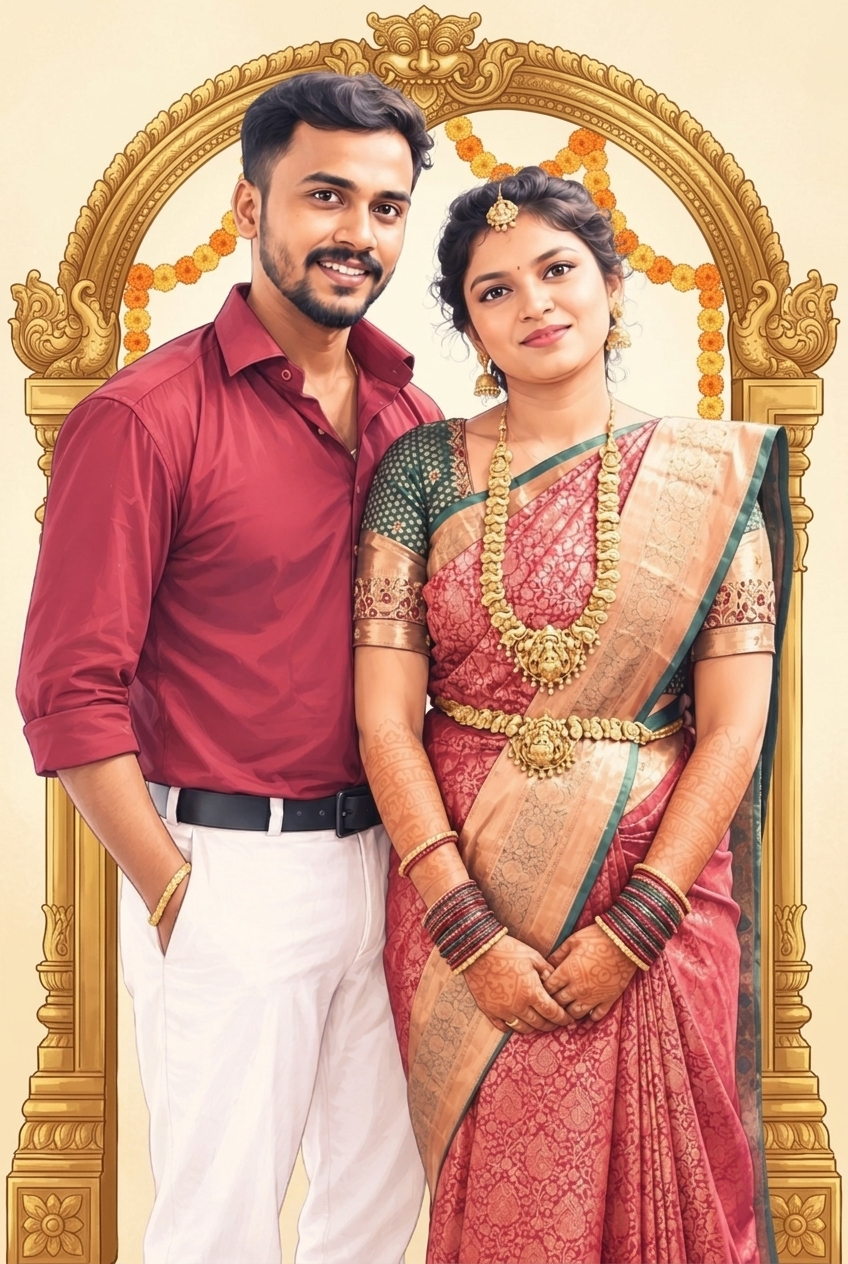
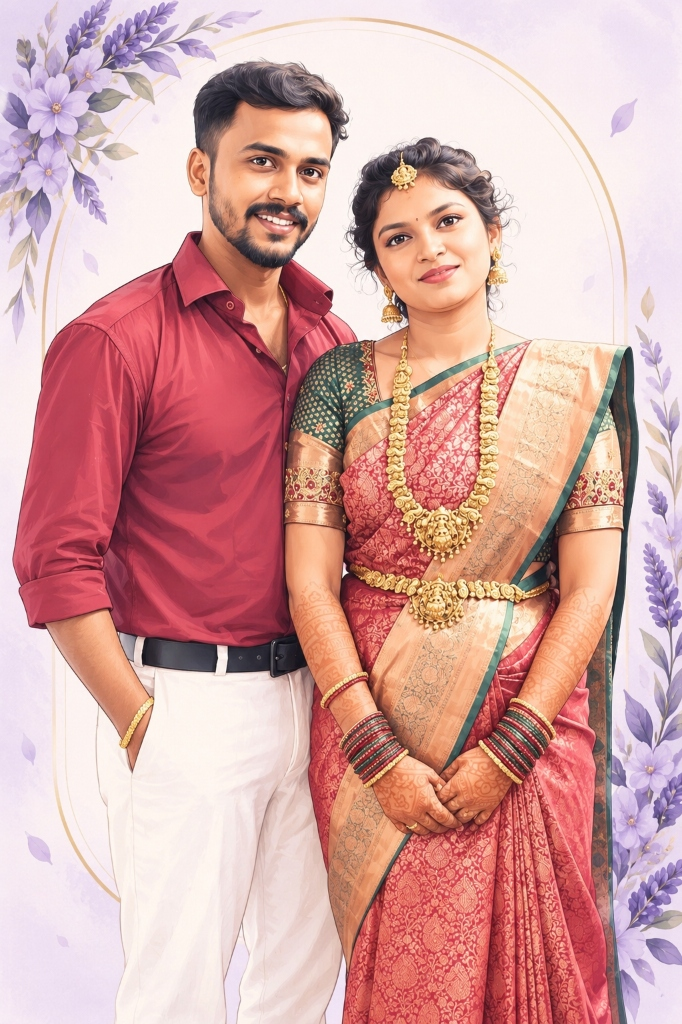
Replace wedding-couple with wedding-couple-original-purple

diff --git a/lavender-wedding-invitation/src/components/WeddingDetails.jsx b/lavender-wedding-invitation/src/components/WeddingDetails.jsx
@@ -282,7 +282,7 @@ export default function WeddingDetails() {
           <div className="relative mx-auto inline-block p-2.5 sm:p-3 rounded-[36px] bg-gradient-to-b from-[#EFE5F7] via-white to-[#F4ECFA] border border-[#E3D3F4] shadow-md">
             <div className="overflow-hidden rounded-[30px] w-64 sm:w-80 h-72 sm:h-96 mx-auto bg-[#FAF6FD]">
               <img
-                src={couple.image || "/images/wedding-couple.jpg"}
+                src={couple.image || "/images/wedding-couple-original-purple.jpg"}
                 alt={couple.altText}
                 className="w-full h-full object-cover object-top hover:scale-105 transition-transform duration-700"
               />

diff --git a/lavender-wedding-invitation/src/data/weddingData.js b/lavender-wedding-invitation/src/data/weddingData.js
@@ -10,7 +10,7 @@ export const weddingData = {
   couple: {
     groom: "S. Sasidharan",
     bride: "S. Swetha",
-    image: "/images/wedding-couple.jpg",
+    image: "/images/wedding-couple-original-purple.jpg",
     heroBackground: "/images/hero-bg-couple.jpg",
     altText: "S. Sasidharan and S. Swetha - Wedding Couple",
   },
@@ -146,7 +146,7 @@ export const weddingData = {
       id: 1,
       title: "Wedding Portrait",
       caption: "Sasidharan & Swetha in Traditional Silk Attire",
-      src: "/images/wedding-couple.jpg",
+      src: "/images/wedding-couple-original-purple.jpg",
     },
     {
       id: 2,
